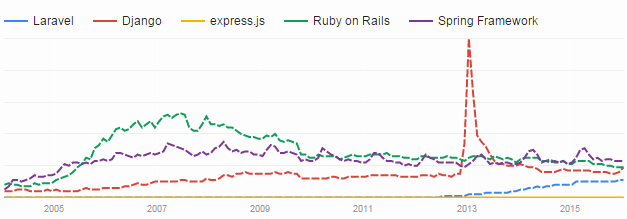
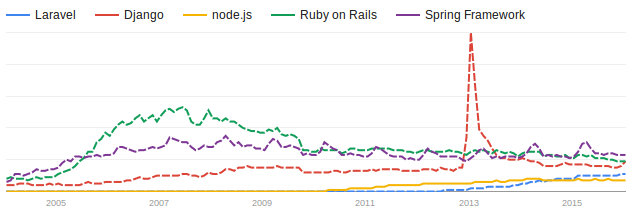
new post: framework trends FINAL

Changed region(s): [[0.0, 0.1667, 1.0, 0.9722], [0.1515, 0.0278, 0.8788, 0.1389], [0.0, 0.0556, 0.1212, 0.1389]]

diff --git a/web/2016/01/31/la-invasion-de-los-frameworks-tendencias-en-tecnologias-de-desarrollo-de-web-apps.html b/web/2016/01/31/la-invasion-de-los-frameworks-tendencias-en-tecnologias-de-desarrollo-de-web-apps.html
@@ -7,13 +7,13 @@
   <meta name="viewport" content="width=device-width, initial-scale=1">
   <meta name="description" content="Introducción de rigor">
 
-  <title>La invasión de los frameworks</title>
+  <title>La invasión de los frameworks: tendencias en tecnologías de desarrollo de web apps</title>
 
   <link href="/assets/bootstrap.min.css" rel="stylesheet" type="text/css">
   <link href="//maxcdn.bootstrapcdn.com/font-awesome/4.4.0/css/font-awesome.min.css" rel="stylesheet" type="text/css">
   <link rel="stylesheet" type="text/css" href="https://fonts.googleapis.com/css?family=Merriweather">
   <link rel="stylesheet" href="/css/main.css">
-  <link rel="canonical" href="http://mitxelmoriana.com/web/2016/01/31/tecnologias-de-desarrollo-web-tendencias.html">
+  <link rel="canonical" href="http://mitxelmoriana.com/web/2016/01/31/la-invasion-de-los-frameworks-tendencias-en-tecnologias-de-desarrollo-de-web-apps.html">
   <link rel="alternate" type="application/rss+xml" title="MitxelMoriana" href="http://mitxelmoriana.com/feed.xml">
   <link rel="icon" type="image/png" href="/favicon.png">
 </head>
@@ -75,7 +75,7 @@
   
 
   <header class="post-header wrapper">
-    <h1 class="post-title" itemprop="name headline">La invasión de los frameworks</h1>
+    <h1 class="post-title" itemprop="name headline">La invasión de los frameworks: tendencias en tecnologías de desarrollo de web apps</h1>
     <p class="post-meta"><time datetime="2016-01-31T00:00:00+01:00" itemprop="datePublished">Jan 31, 2016</time></p>
   </header>
 
@@ -97,13 +97,13 @@
 
 <h2 id="la-invasin-de-los-frameworks">La invasión de los frameworks</h2>
 
-<p>Ya sea para aplicar al mundo del front end las buenas maneras, abstracción y modularidad típicas del desarrollo back end, como para agilizar el desarrollo web en general y evitar el famoso “reinventar la rueda”, los frameworks han venido para hacernos la vida más fácil. A cambio, <em>sólo</em> nos piden el esfuerzo de estudiar sus particularidades y diferencias (casi na’).</p>
+<p>Ya sea para aplicar al mundo del front end las buenas maneras, abstracción y modularidad típicas del desarrollo back end, como para agilizar el desarrollo web en general y evitar lo de “reinventar la rueda”, los frameworks han venido para hacernos la vida más fácil. A cambio, <em>sólo</em> nos piden el esfuerzo de estudiar sus particularidades y diferencias (casi na’).</p>
 
-<p>Existen frameworks de todos los tamaños: desde <strong>full-stack frameworks</strong> para desarrollar íntegramente cualquier tipo de aplicación web hasta <strong>microframeworks</strong> destinados a correr servicios web con la mayor velocidd y el menor consumo de recursos posible. Algunos frameworks se centran solamente en el front end o el manejo de las vistas, mientras que otros te permiten el desarrollo integral back y front, a menudo procurando disciplinarte en el uso de arquitecturas Modelo-Vista-Controlador.</p>
+<p>Existen frameworks de todos los tamaños: desde <strong>full-stack frameworks</strong> para desarrollar íntegramente cualquier tipo de aplicación web hasta <strong>microframeworks</strong> destinados a correr servicios web con la mayor velocidad y el menor consumo de recursos posible. Algunos frameworks se centran solamente en el front end o el manejo de las vistas, mientras que otros te permiten el desarrollo integral back y front, a menudo procurando disciplinarte en el uso de arquitecturas Modelo-Vista-Controlador.</p>
 
 <p>También podemos clasificar los frameworks según los lenguajes de programación en que están escritos o el lenguaje en que debemos escribir nuestras aplicaciones cuando los usamos: PHP, Ruby, Python, Java, Groovy, Scala, JavaScript, CoffeeScript, Perl… you name it.</p>
 
-<p>Pero a la vista que las web apps más populares (wikipedia, youtube, facebook, github, ebay, twitter, netflix…) están escritas usando diferentes lenguajes y al margen de las preferencias personales, <strong>el lenguaje de programación subyacente a los frameworks debería ser un dato irrelevante a la hora de elegir cuál de ellos usar</strong>. Mucho más importante es, en cambio, la naturaleza del proyecto que debemos afrontar, por ejemplo: ¿se trata de una nueva aplicación que hay que desarrollar íntegramente, hay que trabajar con grandes bases de datos, es principalmente una app interactiva, es un web service o sólo hay que mejorar una interfaz con problemas de rendimiento?</p>
+<p>La cuestión del lenguaje podría parecer importante a primera vista, pero los hechos son que las webs más populares (wikipedia, youtube, facebook, github, ebay, twitter, netflix…) están escritas usando diferentes lenguajes y por tanto, dejando al margen las preferencias personales, <strong>el lenguaje de programación subyacente a los frameworks debería ser un dato irrelevante a la hora de elegir cuál de ellos usar</strong>. Mucho más importante es, en cambio, la naturaleza del proyecto que debemos afrontar, por ejemplo: ¿se trata de una nueva aplicación que hay que desarrollar íntegramente, hay que trabajar con grandes bases de datos, es principalmente una app interactiva, es un web service o sólo hay que mejorar una interfaz con problemas de rendimiento?</p>
 
 <p>Una vez respondidas ese tipo de preguntas y realizada la primera criba de frameworks, nos hemos de enfrentar al hecho de que <strong>existen montones de alternativas ¡incluso con el mismo lenguaje de programación!</strong>.</p>
 
@@ -112,7 +112,7 @@
 <ul>
   <li>
     <p>PHP frameworks:<br />
-  <strong>Zend</strong>, <strong>CodeIgniter</strong>, <strong>CakePHP</strong>, <strong>Laravel</strong> y Lumen (micro), <strong>Nette</strong>, Yii, Slim (micro), Kohana, Typo3 Flow, FuelPHP…</p>
+  <strong>Zend</strong>, <strong>CodeIgniter</strong>, <strong>CakePHP</strong>, <strong>Laravel</strong> y Lumen (micro), <strong>Nette</strong>, <strong>Yii</strong>, Slim (micro), Kohana, Typo3 Flow, FuelPHP…</p>
   </li>
   <li>
     <p>Python frameworks:<br /> 
@@ -158,64 +158,122 @@
 
 <p>En cualquier caso, no olvides que es tan importante la popularidad relativa entre herramientas como la <strong>tendencia</strong> que sigue esa popularidad, lo que nos permite identificar nuevas herramientas que están ganando terreno a otras más viejas y que están cayendo en desuso.</p>
 
-<h3 id="comparativas-en-google-trendsgoogle-trends">Comparativas en <a href="https://www.google.com/trends/explore">Google Trends</a>:</h3>
+<h3 id="comparativas-google-trendsgoogle-trends">Comparativas <a href="https://www.google.com/trends/explore">Google Trends</a>:</h3>
 
-<p>PHP frameworks</p>
+<h4 id="php-frameworks">PHP frameworks</h4>
 
-<p><img src="http://mitxelmoriana.com/images/fcphp.png" alt="PHP frameworks" />
-[Haz click aquí para ver el gráfico interactivo][http://www.google.com/trends/fetchComponent?hl=en-US&amp;cmpt=q&amp;content=1&amp;cid=TIMESERIES_GRAPH_0&amp;export=5&amp;w=640&amp;h=330&amp;q=/m/0jwy148,+/m/04n23m7,+/m/02qgdkj,+/m/0cdvjh,+/m/09t3sp]</p>
+<p><img src="http://mitxelmoriana.com/images/fcphp.png" alt="PHP frameworks" /></p>
+
+<p><a href="http://www.google.com/trends/fetchComponent?hl=en-US&amp;cmpt=q&amp;content=1&amp;cid=TIMESERIES_GRAPH_0&amp;export=5&amp;w=640&amp;h=330&amp;q=/m/0jwy148,+/m/04n23m7,+/m/02qgdkj,+/m/0cdvjh,+/m/09t3sp" target="_blank">Haz click aquí para ver el gráfico interactivo</a></p>
+
+<p>En una encuesta realizada en Marzo del año pasado (ver <a href="http://www.sitepoint.com/best-php-framework-2015-sitepoint-survey-results/">aquí</a>) Laravel se situaba a la cabeza de los frameworks PHP más usados, seguido de Nette, Yii (1 y 2), CodeIgniter, Zend (1 y 2) y CakePHP. Este gráfico parece confirmar los datos de la encuesta, pero además nos ofrece una perspectiva temporal interesantísima:</p>
+
+<p>Laravel, en tan sólo tres años, se ha hecho con el liderazgo de los frameworks PHP y, no sólo eso, sino que todo ellos parecen estar perdiendo popularidad al mismo tiempo que Laravel la gana. En cuestiones de frameworks PHP, por tanto, apostar por <strong>Laravel</strong> sería la apuesta más segura.</p>
 
 <!--<iframe scrolling="no" style="border:none;" width="640" height="330" src="http://www.google.com/trends/fetchComponent?hl=en-US&cmpt=q&content=1&cid=TIMESERIES_GRAPH_0&export=5&w=640&h=330&q=/m/0jwy148,+/m/04n23m7,+/m/02qgdkj,+/m/0cdvjh,+/m/09t3sp"></iframe>-->
 <!--<script type="text/javascript" src="//www.google.es/trends/embed.js?hl=es&q=/m/0jwy148,+/m/04n23m7,+/m/02qgdkj,+/m/0cdvjh,+/m/09t3sp&cmpt=q&tz=Etc/GMT-1&tz=Etc/GMT-1&content=1&cid=TIMESERIES_GRAPH_AVERAGES_CHART&export=5&w=500&h=330"></script>-->
 
-<p>Python frameworks</p>
+<h4 id="python-frameworks">Python frameworks</h4>
 
-<p><img src="http://mitxelmoriana.com/images/fcpythong.png" alt="Python frameworks" />
-[Haz click aquí para ver el gráfico interactivo][http://www.google.com/trends/fetchComponent?hl=en-US&amp;cmpt=q&amp;content=1&amp;cid=TIMESERIES_GRAPH_0&amp;export=5&amp;w=640&amp;h=330&amp;q=Django+framework,+Pyramid+framework,+Flask+framework,+Bottle+framework]
+<p><img src="http://mitxelmoriana.com/images/fcpython.png" alt="Python frameworks" /></p>
+
+<p><a href="http://www.google.com/trends/fetchComponent?hl=en-US&amp;cmpt=q&amp;content=1&amp;cid=TIMESERIES_GRAPH_0&amp;export=5&amp;w=640&amp;h=330&amp;q=Django+framework,+Pyramid+framework,+Flask+framework,+Bottle+framework" target="_blank">Haz click aquí para ver el gráfico interactivo</a></p>
+
+<p>En el mundillo python, en cambio, no parece haber tanta competencia por los primeros puestos de liderazgo entre los frameworks full-stack. Sí que podríamos dudar entre qué microframework elegir, aunque Flask parece ir a la cabeza, pero a la hora de desarrolar apps hechas y derechas sólo deberíamos tener un nombre en mente: <strong>Django</strong>.</p>
+
 <!--<iframe scrolling="no" style="border:none;" width="640" height="330" src="http://www.google.com/trends/fetchComponent?hl=en-US&cmpt=q&content=1&cid=TIMESERIES_GRAPH_0&export=5&w=640&h=330&q=Django+framework,+Pyramid+framework,+Flask+framework,+Bottle+framework"></iframe>-->
-<!--<script type="text/javascript" src="//www.google.es/trends/embed.js?hl=es&q=Django+framework,+Pyramid+framework,+Flask+framework,+Bottle+framework&cmpt=q&tz=Etc/GMT-1&tz=Etc/GMT-1&content=1&cid=TIMESERIES_GRAPH_AVERAGES_CHART&export=5&w=500&h=330"></script>--></p>
+<!--<script type="text/javascript" src="//www.google.es/trends/embed.js?hl=es&q=Django+framework,+Pyramid+framework,+Flask+framework,+Bottle+framework&cmpt=q&tz=Etc/GMT-1&tz=Etc/GMT-1&content=1&cid=TIMESERIES_GRAPH_AVERAGES_CHART&export=5&w=500&h=330"></script>-->
 
-<p>JavaScript client-side frameworks/libraries</p>
+<h4 id="javascript-client-side-frameworkslibraries">JavaScript client-side frameworks/libraries</h4>
 
-<p><img src="http://mitxelmoriana.com/images/fcJSfront.png" alt="JavaScript client-side frameworks/libraries" />
-[Haz click aquí para ver el gráfico interactivo][http://www.google.com/trends/fetchComponent?hl=en-US&amp;cmpt=q&amp;content=1&amp;cid=TIMESERIES_GRAPH_0&amp;export=5&amp;w=640&amp;h=330&amp;q=/m/0j45p7w,+/m/0268gyp,+/m/0fs46gx,+/m/0bj6c0,+/m/0g3gd1]
+<p><img src="http://mitxelmoriana.com/images/fcJSfront.png" alt="JavaScript client-side frameworks/libraries" /></p>
+
+<p><a href="http://www.google.com/trends/fetchComponent?hl=en-US&amp;cmpt=q&amp;content=1&amp;cid=TIMESERIES_GRAPH_0&amp;export=5&amp;w=640&amp;h=330&amp;q=/m/0j45p7w,+/m/0268gyp,+/m/0fs46gx,+/m/0bj6c0,+/m/0g3gd1" target="_blank">Haz click aquí para ver el gráfico interactivo</a></p>
+
+<p>Del lado cliente tengo la sensación de que durante muchos años se han venido haciendo las cosas de la misma manera: escribir código JavaScript y utilizar jQuery para agilizar el trabajo y hacerlo compatible con la mayoría de browsers.</p>
+
+<p>jQuery sigue siendo la tecnología JavaScript más usada como soporte al desarrollo del front end, pero eso está empezando a cambiar: desde dentro del propio mundillo JavaScript podemos apreciar como AngularJS y la filosofía framework empiezan a hacer mella en el liderazgo de la famosa librería.</p>
+
+<p>Aunque no se aprecia en este gráfico, es sensato suponer que el declive de jQuery también tiene mucho que ver con la reciente aparición de nuevas tecnologías para desarrollo de UI basados en Java o la incipiente amenaza de las tecnologías basadas en el desarrollo de Web Components.</p>
+
+<p>Es difícil saber qué ocurrirá en el mundillo estrictamente front end, pero una cosa está clara: jQuery tiene los años de liderazgo contados. Como apuesta a futuro yo me quedo con <strong>AngularJS</strong> y recomiendo seguir de cerca a tecnologías como ReactJS, sin perder de vista al resto de librerías.</p>
+
 <!--<iframe scrolling="no" style="border:none;" width="640" height="330" src="http://www.google.com/trends/fetchComponent?hl=en-US&cmpt=q&content=1&cid=TIMESERIES_GRAPH_0&export=5&w=640&h=330&q=/m/0j45p7w,+/m/0268gyp,+/m/0fs46gx,+/m/0bj6c0,+/m/0g3gd1"></iframe>-->
-<!--<script type="text/javascript" src="//www.google.es/trends/embed.js?hl=es&q=/m/0j45p7w,+/m/0268gyp,+/m/0fs46gx,+/m/0bj6c0,+/m/0g3gd1&cmpt=q&tz=Etc/GMT-1&tz=Etc/GMT-1&content=1&cid=TIMESERIES_GRAPH_AVERAGES_CHART&export=5&w=500&h=330"></script>--></p>
+<!--<script type="text/javascript" src="//www.google.es/trends/embed.js?hl=es&q=/m/0j45p7w,+/m/0268gyp,+/m/0fs46gx,+/m/0bj6c0,+/m/0g3gd1&cmpt=q&tz=Etc/GMT-1&tz=Etc/GMT-1&content=1&cid=TIMESERIES_GRAPH_AVERAGES_CHART&export=5&w=500&h=330"></script>-->
 
-<p>Javascript/CoffeeScript/server-side JS frameworks</p>
+<h4 id="javascriptcoffeescriptserver-side-js-frameworks">Javascript/CoffeeScript/server-side JS frameworks</h4>
 
-<p><img src="http://mitxelmoriana.com/images/fcJS.png" alt="Javascript/CoffeeScript/server-side JS frameworks" />
-[Haz click aquí para ver el gráfico interactivo][http://www.google.com/trends/fetchComponent?hl=en-US&amp;cmpt=q&amp;content=1&amp;cid=TIMESERIES_GRAPH_0&amp;export=5&amp;w=640&amp;h=330&amp;q=backboneJS,+EmberJS,+Express+Node.JS,+MeteorJS,+SailsJS]
+<p><img src="http://mitxelmoriana.com/images/fcJS.png" alt="Javascript/CoffeeScript/server-side JS frameworks" /></p>
+
+<p><a href="http://www.google.com/trends/fetchComponent?hl=en-US&amp;cmpt=q&amp;content=1&amp;cid=TIMESERIES_GRAPH_0&amp;export=5&amp;w=640&amp;h=330&amp;q=backboneJS,+EmberJS,+Express+Node.JS,+MeteorJS,+SailsJS" target="_blank">Haz click aquí para ver el gráfico interactivo</a></p>
+
+<p>Hace unos años no me hubiese podido creer que JavaScript sería la base para tecnologías del lado servidor como mínimo tan buenas como cualquier otra. Habría sido inimaginable leer post como [éste][nodejs-da-best] en los que se habla de Node.JS (un JS runtime environment, una plataforma de ejecución de código JS del lado servidor) como la gran panacea del desarrollo web.</p>
+
+<p>A primar vista la gráfica sugiere que en este relativamente nuevo mundillo de los full-stack frameworks basados en tecnologías JavaScript/Node.JS parece haber una competencia feroz por hacerse con el primer puesto.</p>
+
+<p>A estas alturas es difícil mojarse y apostar por algún framework en concreto, pero una cosa está clara: casi todos ellos afirman tener rendimientos increíblemente mejores con respecto a tecnologías más tradicionales como PHP.</p>
+
+<p>En este sentido no es que haya que estar pendientes de Backbone o Ember o Meteor… Es que <strong>hay que estar pendientes de todo este nicho tecnológico</strong> porque podrían revolucionar el futuro inmediato y desbancar al resto de tecnologías.</p>
+
 <!--<iframe scrolling="no" style="border:none;" width="640" height="330" src="http://www.google.com/trends/fetchComponent?hl=en-US&cmpt=q&content=1&cid=TIMESERIES_GRAPH_0&export=5&w=640&h=330&q=backboneJS,+EmberJS,+Express+Node.JS,+MeteorJS,+SailsJS"></iframe>-->
-<!--<script type="text/javascript" src="//www.google.es/trends/embed.js?hl=es&q=backboneJS,+EmberJS,+Express+Node.JS,+MeteorJS,+SailsJS&cmpt=q&tz=Etc/GMT-1&tz=Etc/GMT-1&content=1&cid=TIMESERIES_GRAPH_AVERAGES_CHART&export=5&w=500&h=330"></script>--></p>
+<!--<script type="text/javascript" src="//www.google.es/trends/embed.js?hl=es&q=backboneJS,+EmberJS,+Express+Node.JS,+MeteorJS,+SailsJS&cmpt=q&tz=Etc/GMT-1&tz=Etc/GMT-1&content=1&cid=TIMESERIES_GRAPH_AVERAGES_CHART&export=5&w=500&h=330"></script>-->
 
-<p>Ruby frameworks</p>
+<h4 id="ruby-frameworks">Ruby frameworks</h4>
 
-<p><img src="http://mitxelmoriana.com/images/" alt="My helpful screenshot" />
-[Haz click aquí para ver el gráfico interactivo][]
+<p><img src="http://mitxelmoriana.com/images/fcruby.png" alt="My helpful screenshot" /></p>
+
+<p><a href="http://www.google.com/trends/fetchComponent?hl=en-US&amp;cmpt=q&amp;content=1&amp;cid=TIMESERIES_GRAPH_0&amp;export=5&amp;w=640&amp;h=330&amp;q=/m/0505cl,+/m/05zt0xc,+Cramp+ruby,+Padrino+ruby,+Ramaze" target="_blank">Haz click aquí para ver el gráfico interactivo</a></p>
+
+<p>Con el mundillo Ruby ocurre algo muy parecido a con Python. No hay pelea, no hay color, hay un ganador, sólo un ganador y nada más que un ganador, así que lo único que podemos analizar es la propia tendencia en la popularidad del líder indiscutible: <strong>Ruby on Rails</strong>.</p>
+
+<p>Nacimiento y boom del 2005 al 2008, declive hasta el 2010 y maduración hasta ahora. RoR tiene ya más de 10 años pero se converva bastante bien: no se aprecia un tendencia a la baja especialmente fuerte, aunque nada auspicia un aumento de su popularidad en los próximos años.</p>
+
+<p>Como teoría de la conspiración: ¿no es casualidad que la etapa de decadencia 2008-2010 coincida con el crecimiento en popularidad de nuevos frameworks basados en PHP en la misma etapa? (<em>musiquilla de X-Files</em>).</p>
+
 <!--<iframe scrolling="no" style="border:none;" width="640" height="330" src="http://www.google.com/trends/fetchComponent?hl=en-US&cmpt=q&content=1&cid=TIMESERIES_GRAPH_0&export=5&w=640&h=330&q=/m/0505cl,+/m/05zt0xc,+Cramp+ruby,+Padrino+ruby,+Ramaze"></iframe>-->
-<!--<script type="text/javascript" src="//www.google.es/trends/embed.js?hl=es&q=/m/0505cl,+/m/05zt0xc,+Cramp+ruby,+Padrino+ruby,+Ramaze&cmpt=q&tz=Etc/GMT-1&tz=Etc/GMT-1&content=1&cid=TIMESERIES_GRAPH_AVERAGES_CHART&export=5&w=500&h=330"></script>--></p>
+<!--<script type="text/javascript" src="//www.google.es/trends/embed.js?hl=es&q=/m/0505cl,+/m/05zt0xc,+Cramp+ruby,+Padrino+ruby,+Ramaze&cmpt=q&tz=Etc/GMT-1&tz=Etc/GMT-1&content=1&cid=TIMESERIES_GRAPH_AVERAGES_CHART&export=5&w=500&h=330"></script>-->
 
-<p>Java/Groovy/Scala frameworks</p>
+<h4 id="javagroovyscala-frameworks">Java/Groovy/Scala frameworks</h4>
 
-<p><img src="http://mitxelmoriana.com/images/fcjava.png" alt="Java/Groovy/Scala frameworks" />
-[Haz click aquí para ver el gráfico interactivo][http://www.google.com/trends/fetchComponent?hl=en-US&amp;cmpt=q&amp;content=1&amp;cid=TIMESERIES_GRAPH_0&amp;export=5&amp;w=640&amp;h=330&amp;q=/m/0dhx5b,+/m/027lgcc,+/m/02bcj2,+/m/0dj45_,+/m/06hr64]
+<p><img src="http://mitxelmoriana.com/images/fcjava.png" alt="Java/Groovy/Scala frameworks" /></p>
+
+<p><a href="http://www.google.com/trends/fetchComponent?hl=en-US&amp;cmpt=q&amp;content=1&amp;cid=TIMESERIES_GRAPH_0&amp;export=5&amp;w=640&amp;h=330&amp;q=/m/0dhx5b,+/m/027lgcc,+/m/02bcj2,+/m/0dj45_,+/m/06hr64" target="_blank">Haz click aquí para ver el gráfico interactivo</a></p>
+
+<p>Creo que esta gráfica, donde aparece una caída generalizada en la popularidad de los frameworks basados en Java, podría inducir a extraer conclusiones precipitadas y erróneas. El mundillo del desarrollo web en Java está fuertemente influenciado por el desarrollo de apps para móbiles y teniendo en cuenta que el desarrollo para Android y demás no hace más que crecer, lo más sensato es suponer que los web frameworks basados en Java o intermediarios entre Java y tecnologías más próximas a las tradicionales, tienen aún mucha pelea que dar.</p>
+
+<p>Mantengámonos atentos.</p>
+
 <!--<iframe scrolling="no" style="border:none;" width="640" height="330" src="http://www.google.com/trends/fetchComponent?hl=en-US&cmpt=q&content=1&cid=TIMESERIES_GRAPH_0&export=5&w=640&h=330&q=/m/0dhx5b,+/m/027lgcc,+/m/02bcj2,+/m/0dj45_,+/m/06hr64"></iframe>-->
-<!--<script type="text/javascript" src="//www.google.es/trends/embed.js?hl=es&q=/m/0dhx5b,+/m/027lgcc,+/m/02bcj2,+/m/0dj45_,+/m/06hr64&cmpt=q&tz=Etc/GMT-1&tz=Etc/GMT-1&content=1&cid=TIMESERIES_GRAPH_AVERAGES_CHART&export=5&w=500&h=330"></script>--></p>
+<!--<script type="text/javascript" src="//www.google.es/trends/embed.js?hl=es&q=/m/0dhx5b,+/m/027lgcc,+/m/02bcj2,+/m/0dj45_,+/m/06hr64&cmpt=q&tz=Etc/GMT-1&tz=Etc/GMT-1&content=1&cid=TIMESERIES_GRAPH_AVERAGES_CHART&export=5&w=500&h=330"></script>-->
 
-<p>Full-stack web frameworks cross-tech</p>
+<h4 id="full-stack-web-frameworks-cross-tech">Full-stack web frameworks cross-tech</h4>
 
-<p><img src="http://mitxelmoriana.com/images/fcALL.png" alt="Full-stack web frameworks cross-tech" />
-[Haz click aquí para ver el gráfico interactivo][http://www.google.com/trends/fetchComponent?hl=en-US&amp;cmpt=q&amp;content=1&amp;cid=TIMESERIES_GRAPH_0&amp;export=5&amp;w=640&amp;h=330&amp;q=/m/0jwy148,+/m/06y_qx,+Express.js,+/m/0505cl,+/m/0dhx5b]
+<p><img src="http://mitxelmoriana.com/images/fcALL.png" alt="Full-stack web frameworks cross-tech" /></p>
+
+<p><a href="http://www.google.com/trends/fetchComponent?hl=en-US&amp;cmpt=q&amp;content=1&amp;cid=TIMESERIES_GRAPH_0&amp;export=5&amp;w=640&amp;h=330&amp;q=/m/0jwy148,+/m/06y_qx,+Node.js,+/m/0505cl,+/m/0dhx5b" target="_blank">Haz click aquí para ver el gráfico interactivo</a></p>
+
+<p>No sería decente despedirme sin una comparativa entre los líderes full-stack de cada una de las categorías anteriores. He de confesar que he hecho un poquito de trampa a la hora de añadir en la comparativa a Node.JS en lugar de a algún framework basado en JavaScript o que corra sobre Node.JS, pero creo que Node.JS, como tecnología subyacente, puede ser un buen indicador de vanguardia sobre la evolución futura de frameworks basados en server-side JS.</p>
+
+<p>Creo que de acuerdo a la gráfica podríamos agrupar a los líderes en dos tipos de tendencias: los que se mantienen en popularidad o presentan una ligera tendencia a la baja y los que tienden a crecer de forma lineal, más o menos estable, durante los últimos años.</p>
+
+<p>En resumen:</p>
+
+<ul>
+  <li>Apuestas de futuro: Laravel y frameworks basados en JavaScript</li>
+  <li>Apuestas seguras: Django, RoR y Spring.</li>
+</ul>
+
 <!--<iframe scrolling="no" style="border:none;" width="640" height="330" src="http://www.google.com/trends/fetchComponent?hl=en-US&cmpt=q&content=1&cid=TIMESERIES_GRAPH_0&export=5&w=640&h=330&q=/m/0jwy148,+/m/06y_qx,+Express.js,+/m/0505cl,+/m/0dhx5b"></iframe>-->
-<!--<script type="text/javascript" src="//www.google.es/trends/embed.js?hl=es&q=/m/0jwy148,+/m/06y_qx,+Express.js,+/m/0505cl,+/m/0dhx5b&cmpt=q&tz=Etc/GMT-1&tz=Etc/GMT-1&content=1&cid=TIMESERIES_GRAPH_AVERAGES_CHART&export=5&w=500&h=330"></script>--></p>
+<!--<script type="text/javascript" src="//www.google.es/trends/embed.js?hl=es&q=/m/0jwy148,+/m/06y_qx,+Express.js,+/m/0505cl,+/m/0dhx5b&cmpt=q&tz=Etc/GMT-1&tz=Etc/GMT-1&content=1&cid=TIMESERIES_GRAPH_AVERAGES_CHART&export=5&w=500&h=330"></script>-->
 
-<p>Front-end tools cross-tech</p>
+<!--#### Front-end tools cross-tech-->
 
-<p><img src="http://mitxelmoriana.com/images/fcfrontALL.png" alt="Front-end tools cross-tech" />
-[Haz click aquí para ver el gráfico interactivo][http://www.google.com/trends/fetchComponent?hl=en-US&amp;cmpt=q&amp;content=1&amp;cid=TIMESERIES_GRAPH_0&amp;export=5&amp;w=640&amp;h=330&amp;q=/m/026mhl,+/m/0d6jq1,+/m/0268gyp,+/m/0j45p7w,+web+components]
+<!--![Front-end tools cross-tech](http://mitxelmoriana.com/images/fcfrontALL.png)-->
+
+<!--[Haz click aquí para ver el gráfico interactivo][graph-8]{:target="_blank"}-->
+
 <!--<iframe scrolling="no" style="border:none;" width="640" height="330" src="http://www.google.com/trends/fetchComponent?hl=en-US&cmpt=q&content=1&cid=TIMESERIES_GRAPH_0&export=5&w=640&h=330&q=/m/026mhl,+/m/0d6jq1,+/m/0268gyp,+/m/0j45p7w,+web+components"></iframe>-->
-<!--<script type="text/javascript" src="//www.google.es/trends/embed.js?hl=es&q=/m/026mhl,+/m/0d6jq1,+/m/0268gyp,+/m/0j45p7w,+web+components&cmpt=q&tz=Etc/GMT-1&tz=Etc/GMT-1&content=1&cid=TIMESERIES_GRAPH_AVERAGES_CHART&export=5&w=500&h=330"></script>--></p>
+<!--<script type="text/javascript" src="//www.google.es/trends/embed.js?hl=es&q=/m/026mhl,+/m/0d6jq1,+/m/0268gyp,+/m/0j45p7w,+web+components&cmpt=q&tz=Etc/GMT-1&tz=Etc/GMT-1&content=1&cid=TIMESERIES_GRAPH_AVERAGES_CHART&export=5&w=500&h=330"></script>-->
 
 
   </div>
@@ -226,7 +284,7 @@
 <div id="disqus_thread"></div>
 <script>
      var disqus_config = function () {
-         this.page.url = 'http://mitxelmoriana.com/web/2016/01/31/tecnologias-de-desarrollo-web-tendencias.html';
+         this.page.url = 'http://mitxelmoriana.com/web/2016/01/31/la-invasion-de-los-frameworks-tendencias-en-tecnologias-de-desarrollo-de-web-apps.html';
      };
     (function() {
         var d = document, s = d.createElement('script');

diff --git a/index.html b/index.html
@@ -77,7 +77,7 @@
         <span class="post-meta">Jan 31, 2016</span>
 
         <h2>
-          <a class="post-link" href="/web/2016/01/31/tecnologias-de-desarrollo-web-tendencias.html">La invasión de los frameworks</a>
+          <a class="post-link" href="/web/2016/01/31/la-invasion-de-los-frameworks-tendencias-en-tecnologias-de-desarrollo-de-web-apps.html">La invasión de los frameworks: tendencias en tecnologías de desarrollo de web apps</a>
         </h2>
       </li>
     
